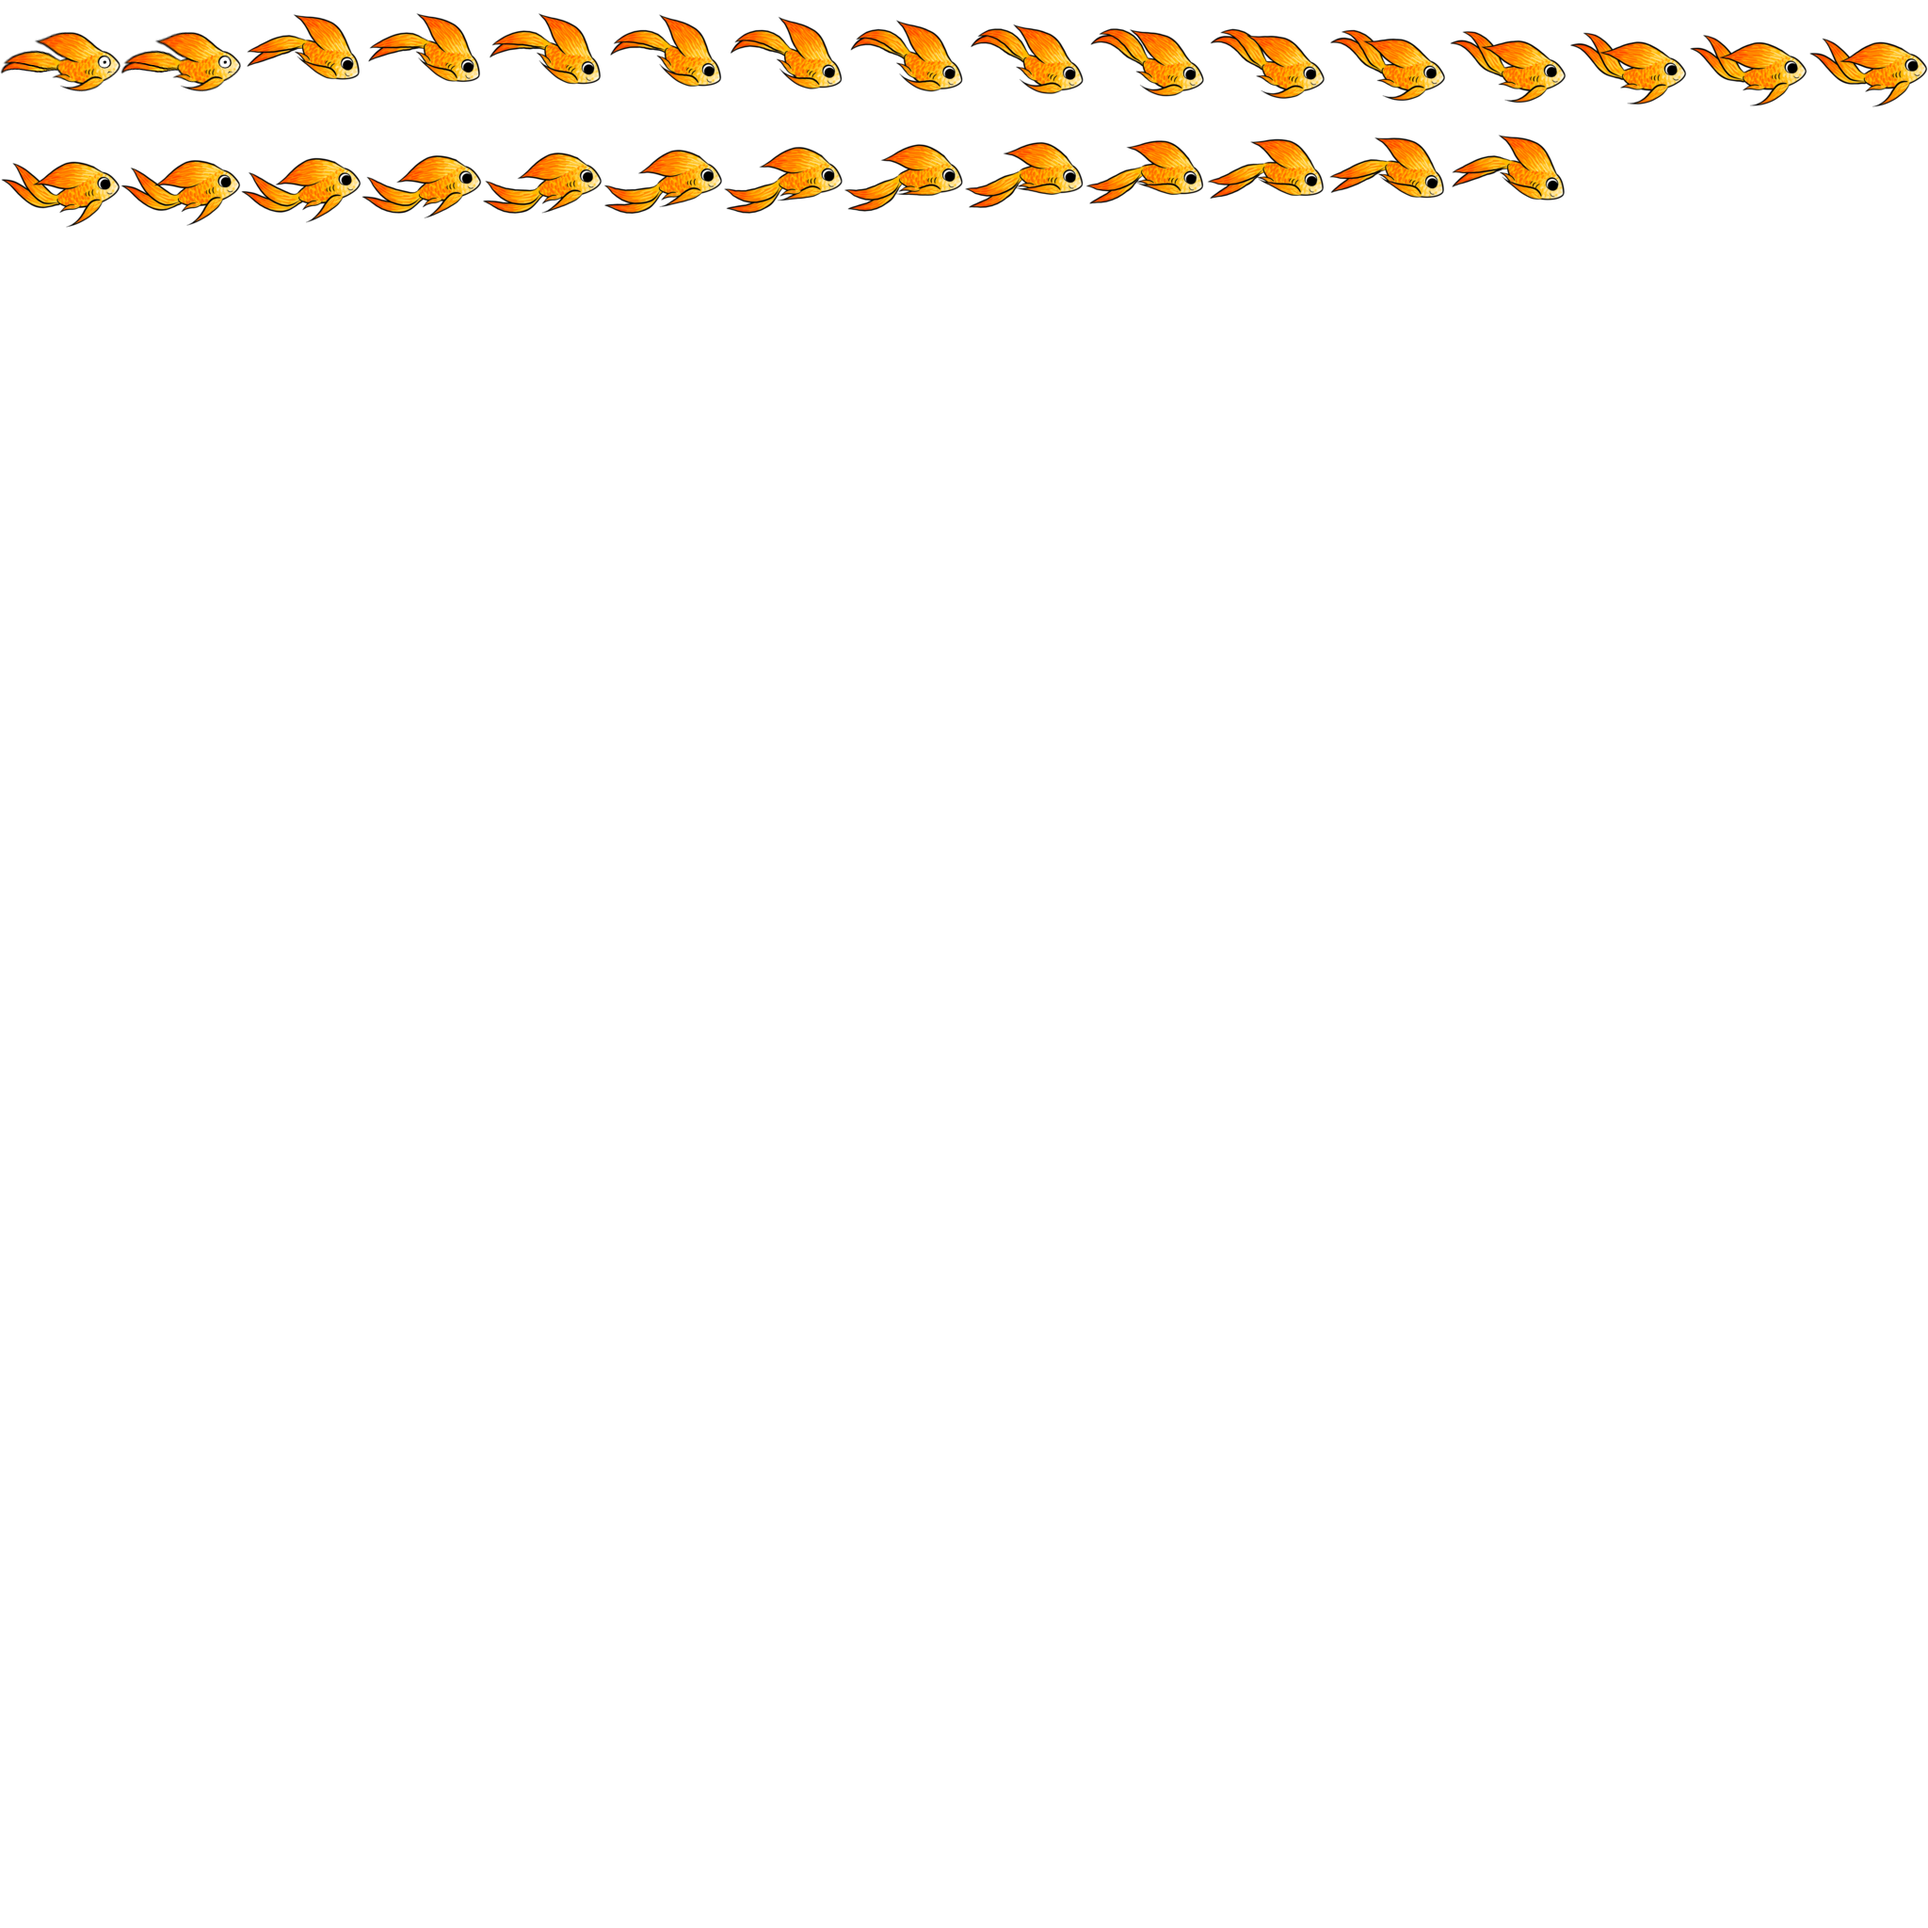
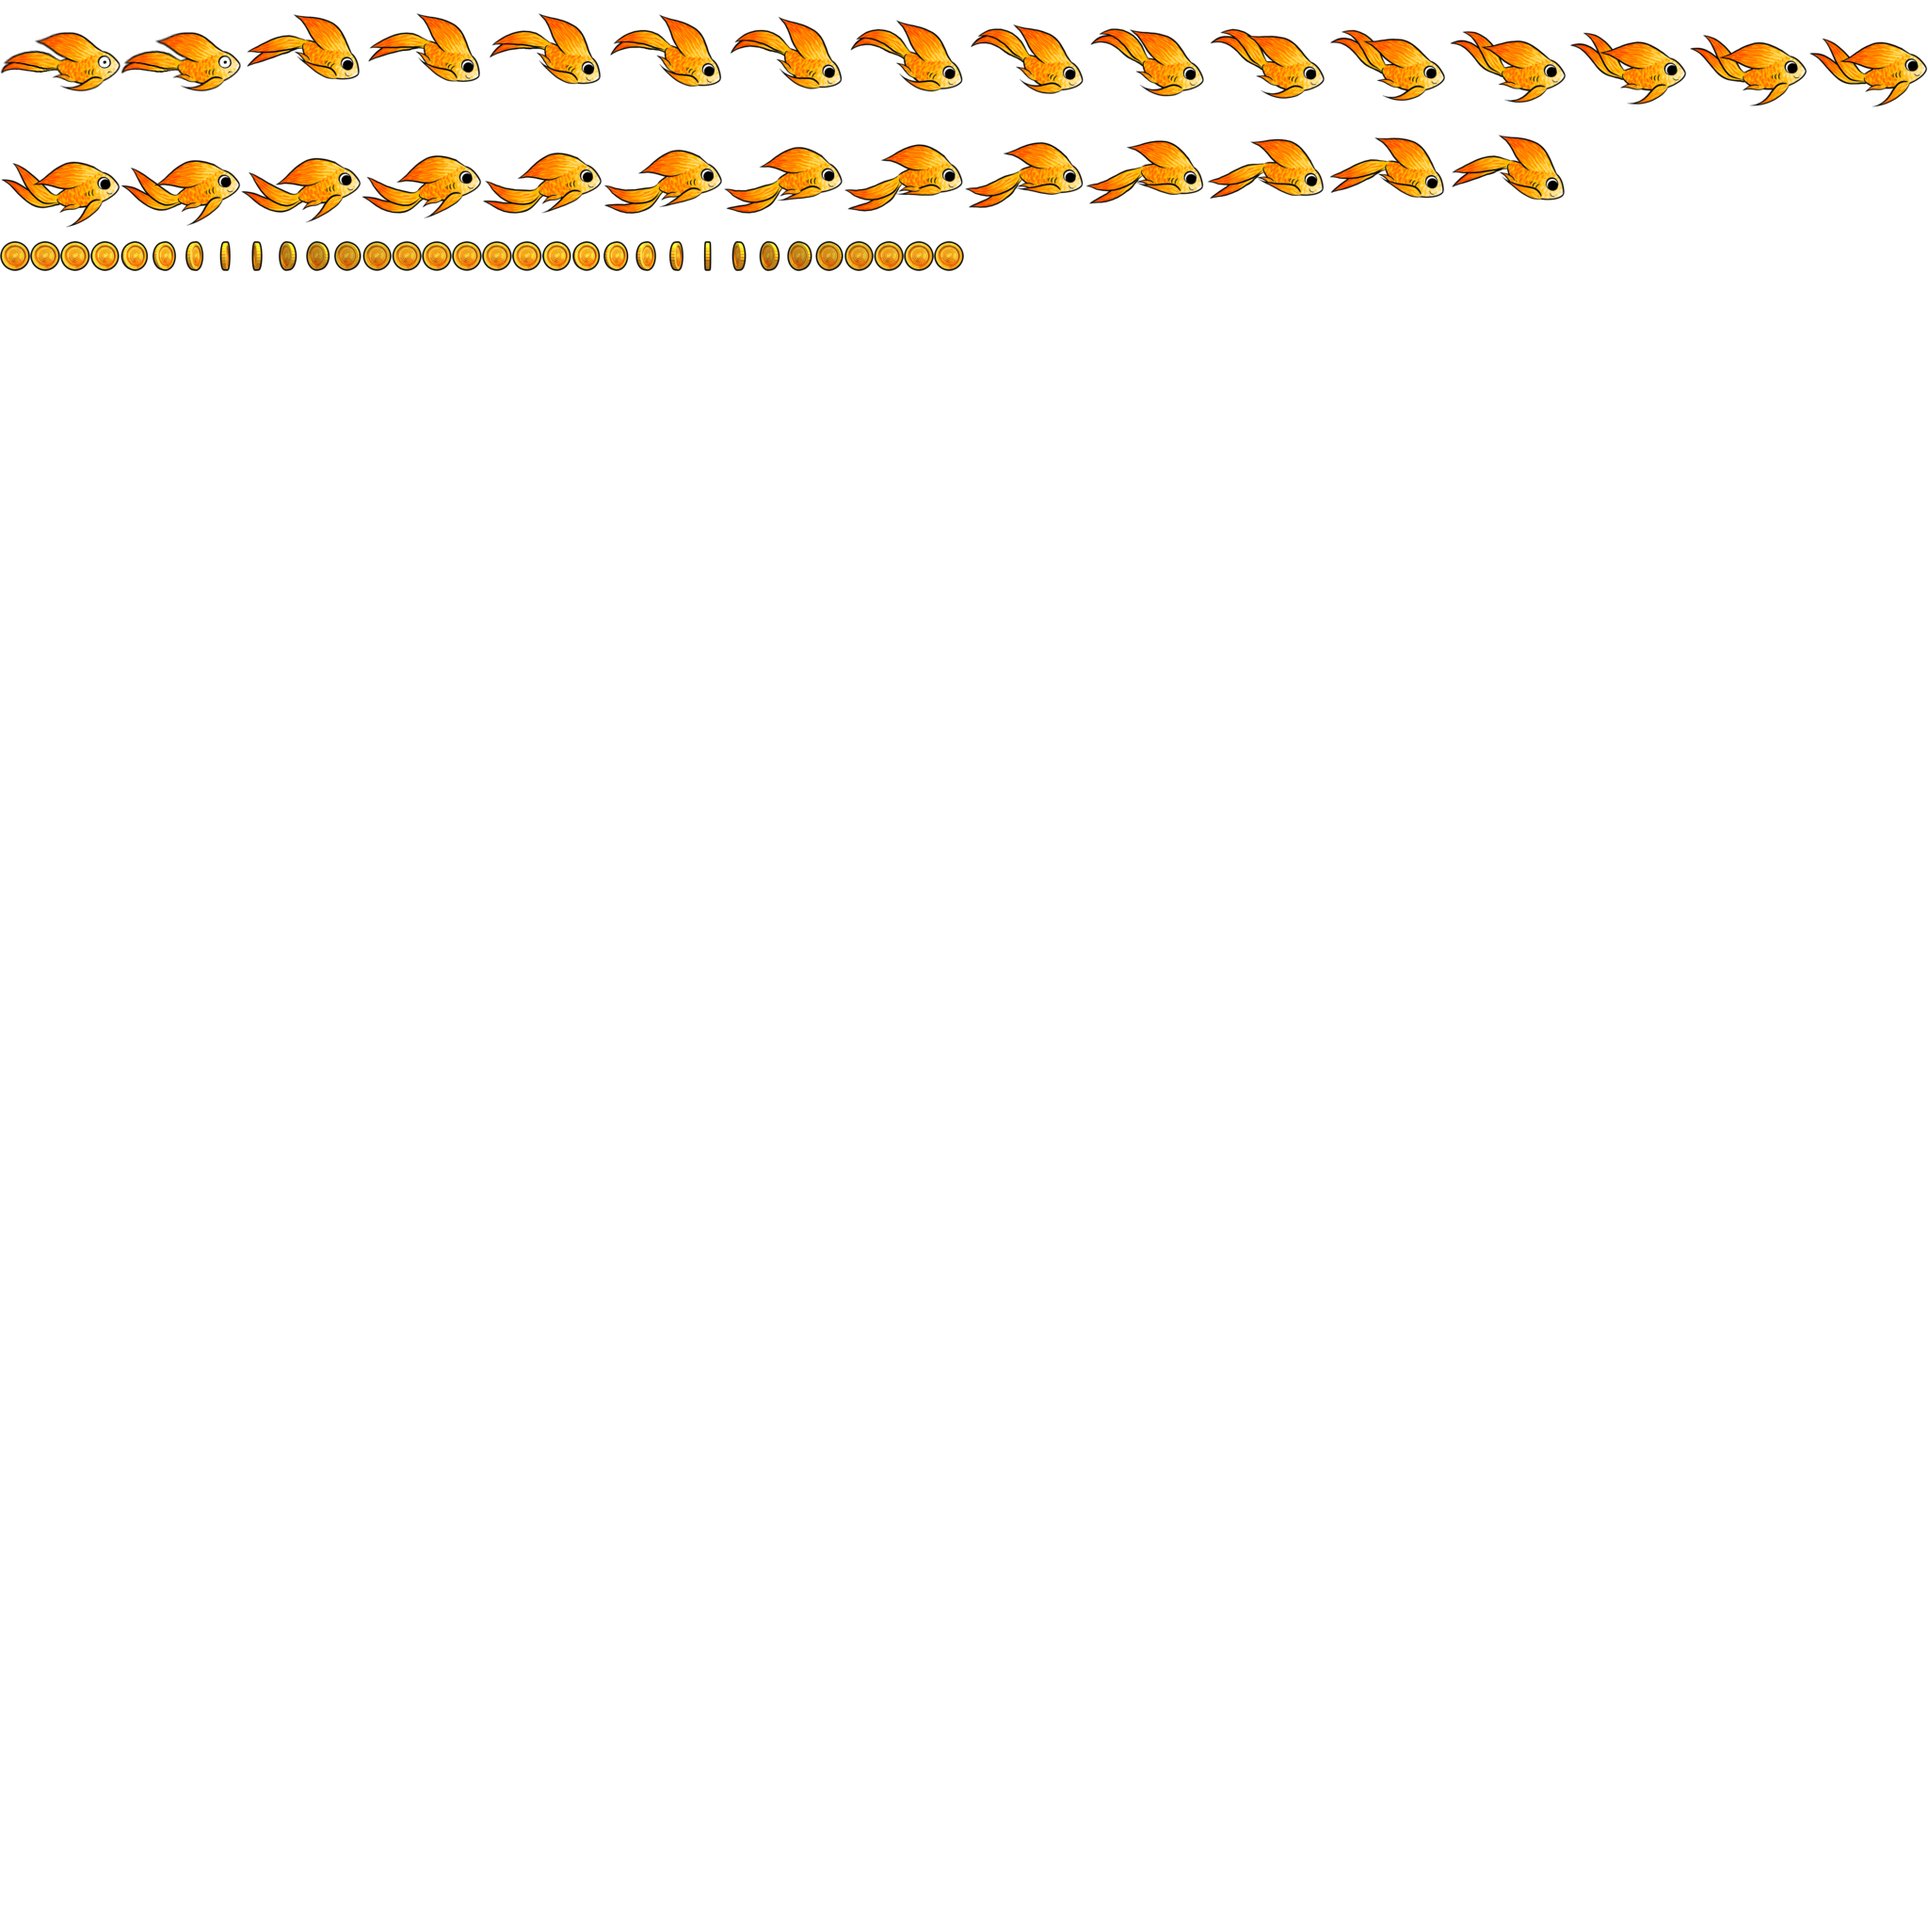
+ Add coin textures. + Add EntityManager. + Add first frame setting to AnimatedTexture. + Add coin.

Changed region(s): [[0.0, 0.125, 0.5, 0.1562]]

diff --git a/fiiish-rs/src/fiiish/game.rs b/fiiish-rs/src/fiiish/game.rs
@@ -1,4 +1,5 @@
 
+use crate::math::Vector2;
 use crate::renderer::{
 	AnimatedTexture,
 	Renderer,
@@ -7,18 +8,25 @@ use crate::renderer::{
 use crate::system::System;
 use crate::window_update_context::WindowUpdateContext;
 
-use crate::fiiish::entities::Player;
+use crate::fiiish::entities::{
+	Coin,
+	Entity,
+	EntityManager,
+	Player
+};
 use crate::fiiish::EntityUpdateContext;
 
 #[derive(Debug)]
 pub struct Game {
 	players: Vec<Player>,
+	entity_manager: EntityManager,
 }
 
 impl Game {
 	pub fn new() -> Self {
 		Self {
 			players: Vec::new(),
+			entity_manager: EntityManager::new(),
 		}
 	}
 
@@ -30,9 +38,24 @@ impl Game {
 		let mut p = Player::new();
 		p.setup( "player" );
 		self.players.push( p );
+
+		self.entity_manager.setup();
+
+		for i in 0..32 {
+			let r = 80.0+ (i as f32 * 8.0 );
+			let fi = 2.2*( i as f32 )*( 3.14*2.0 )/32.0;
+			let x = fi.sin() * r;
+			let y = fi.cos() * r;
+			let mut c = Coin::new( &Vector2::new( x, y ), i as u16 );
+			c.setup( "coin" );
+
+			self.entity_manager.add( Box::new( c ) );
+		}
+		
 	}
 
 	pub fn teardown( &mut self ) {
+		self.entity_manager.teardown();
 		for p in self.players.iter_mut() {
 			p.teardown( );
 		}
@@ -69,11 +92,18 @@ impl Game {
 		for p in self.players.iter_mut() {
 			p.update( &mut euc );
 		}
+
+		for e in self.entity_manager.iter_mut() {
+			e.update( &mut euc );
+		}
 	}
 
 	pub fn render( &mut self, renderer: &mut Renderer) {
 		for p in self.players.iter_mut() {
 			p.render( renderer );
+		}
+		for e in self.entity_manager.iter_mut() {
+			e.render( renderer );
 		}
 	}
 }

diff --git a/fiiish-rs/src/renderer/animated_texture.rs b/fiiish-rs/src/renderer/animated_texture.rs
@@ -10,6 +10,7 @@ use crate::system::System;
 pub struct AnimatedTexture {
 	prefix: String,
 	number_of_digits: u8,
+	first_frame: u16,
 	number_of_frames: u16,
 	fps: f32,
 	current_frame: u16,
@@ -23,6 +24,7 @@ impl AnimatedTexture {
 		Self {
 			prefix: String::new(),
 			number_of_digits: 0,
+			first_frame: 0,
 			number_of_frames: 0,
 			fps: 0.0,
 			current_frame: 0,
@@ -31,18 +33,28 @@ impl AnimatedTexture {
 		}
 	}
 
-	pub fn setup( &mut self, prefix: &str, number_of_digits: u8, number_of_frames: u16, fps: f32 ) {
+	pub fn setup( &mut self, prefix: &str, number_of_digits: u8, first_frame: u16, number_of_frames: u16, fps: f32 ) {
 		self.prefix = prefix.to_owned();
 		self.number_of_digits = number_of_digits;
+		self.first_frame = first_frame;
 		self.number_of_frames = number_of_frames;
 		self.fps = fps;
 		self.time_per_frame = 1.0/fps;
+		self.current_frame = first_frame;
+	}
+
+	pub fn set_current_frame(&mut self, f: u16 ){
+		self.current_frame = f;
 	}
 
 	pub fn update( &mut self, time_step: f64 ) {
 		self.time_in_current_frame += time_step as f32;
 		while self.time_in_current_frame > self.time_per_frame {
-			self.current_frame = ( self.current_frame+1 ) % self.number_of_frames;
+//			self.current_frame = ( self.current_frame+1 ) % self.number_of_frames;
+			self.current_frame += 1;
+			if self.current_frame >= self.first_frame + self.number_of_frames {
+				self.current_frame -= self.number_of_frames;
+			}
 			self.time_in_current_frame -= self.time_per_frame;
 		}
 	}

diff --git a/fiiish-rs/src/fiiish/entities/coin.rs b/fiiish-rs/src/fiiish/entities/coin.rs
@@ -1,0 +1,61 @@
+
+use crate::fiiish::effect_ids::EffectId;
+
+use crate::fiiish::entities::Entity;
+use crate::fiiish::EntityUpdateContext;
+use crate::math::Vector2;
+use crate::renderer::{
+	AnimatedTexture,
+	Renderer
+};
+
+pub struct Coin {
+	name: String,
+	pos: Vector2,
+	size: Vector2,
+	animated_texture: AnimatedTexture,
+	animation_offset: u16,
+}
+
+impl Coin {
+	pub fn new(pos: &Vector2, animation_offset: u16 ) -> Self {
+		Self {
+			name: String::new(),
+			pos: *pos, //Vector2::zero(),
+			size: Vector2::new( 32.0, 32.0 ),
+			animated_texture: AnimatedTexture::new(),
+			animation_offset,
+		}
+	}
+}
+
+impl Entity for Coin {
+	fn setup( &mut self, name: &str) {
+		self.name = name.to_owned();
+		self.animated_texture.setup( "coin_", 2, 1, 32, 25.0 );
+		self.animated_texture.set_current_frame( self.animation_offset );
+	}
+
+	fn teardown( &mut self ){
+
+	}
+
+	fn update( &mut self, euc: &mut EntityUpdateContext ){
+		self.animated_texture.update( euc.time_step() );
+		self.pos.x -= euc.time_step() as f32 * 240.0;
+		if self.pos.x < -1500.0 {
+			self.pos.x += 2.0* 1500.0;
+		}
+	}
+
+	fn render( &mut self, renderer: &mut Renderer ){
+		renderer.use_effect( EffectId::Textured as u16 );
+//		renderer.use_texture( "coin_01" );
+		self.animated_texture.r#use( renderer );
+		renderer.render_textured_quad( &self.pos, &self.size );
+	}
+
+	fn name( &self ) -> &str {
+		&self.name
+	}
+}

diff --git a/fiiish-rs/src/fiiish/entities/entity_manager.rs b/fiiish-rs/src/fiiish/entities/entity_manager.rs
@@ -1,0 +1,31 @@
+
+use crate::fiiish::entities::Entity;
+
+#[derive(Debug)]
+pub struct EntityManager {
+	entities: Vec< Box< dyn Entity > >,
+}
+
+impl EntityManager {
+	pub fn new() -> Self {
+		Self {
+			entities: Vec::new(),
+		}
+	}
+
+	pub fn setup( &self ) {
+
+	}
+
+	pub fn teardown( &self ) {
+
+	}
+
+	pub fn add( &mut self, entity: Box< Entity > ) {
+		self.entities.push( entity );
+	}
+
+	pub fn iter_mut( &mut self ) -> std::slice::IterMut<'_, Box<(dyn Entity + 'static)>> {
+		self.entities.iter_mut()
+	}
+}

diff --git a/fiiish-rs/src/fiiish/entities/entity.rs b/fiiish-rs/src/fiiish/entities/entity.rs
@@ -1,0 +1,19 @@
+
+
+use crate::fiiish::EntityUpdateContext;
+use crate::renderer::Renderer;
+
+pub trait Entity {
+	fn setup( &mut self, name: &str );
+	fn teardown( &mut self );
+	fn update( &mut self, euc: &mut EntityUpdateContext );
+	fn render( &mut self, renderer: &mut Renderer );
+
+	fn name( &self ) -> &str;
+}
+
+impl std::fmt::Debug for Entity {
+	fn fmt(&self, _: &mut std::fmt::Formatter<'_>) -> std::result::Result<(), std::fmt::Error> {
+		todo!()
+	}
+}

diff --git a/fiiish-rs/src/fiiish/entities/player.rs b/fiiish-rs/src/fiiish/entities/player.rs
@@ -56,8 +56,8 @@ impl Player {
 
 	pub fn setup( &mut self, name: &str ) {
 		self.name = name.to_owned();
-		self.animated_texture.setup( "fish_swim", 4, 27, 25.0 );
-		self.animated_texture_dying.setup( "fish_die", 2, 2, 25.0 );
+		self.animated_texture.setup( "fish_swim", 4, 0, 27, 25.0 );
+		self.animated_texture_dying.setup( "fish_die", 0, 2, 2, 25.0 );
 	}
 
 	pub fn teardown( &mut self ) {

diff --git a/fiiish-rs/src/fiiish/entities.rs b/fiiish-rs/src/fiiish/entities.rs
@@ -1,2 +1,9 @@
+mod entity;
+	pub use entity::Entity as Entity;
+mod entity_manager;
+	pub use entity_manager::EntityManager as EntityManager;
+
+mod coin;
+	pub use coin::Coin as Coin;
 mod player;
 	pub use player::Player as Player;

diff --git a/fiiish-rs/TODO.md b/fiiish-rs/TODO.md
@@ -3,9 +3,10 @@
 
 ## In Progress
 
-- [ ] Add more ...
 
 ## TODO
+
+- [ ] Create generic pickup entity
 
 - [ ] Split renderer context from window
 - [ ] Extend Vector2 with more functionality
@@ -30,6 +31,8 @@
 - [ ] Add Angle helpers
 
 - [ ] Fix linkage between TextureAtlas sub Texture via hwid
+- [ ] Play music
+- [ ] Add SFX
 
 ## Out of scope (for now)
 
@@ -37,6 +40,7 @@
 
 ## DONE
 
+- [x] Add some coins
 - [x] Add TextureAtlas
 - [x] Extract demo code out of FiiishApp
 - [x] Add AnimatedTexture (a bit hacky)
